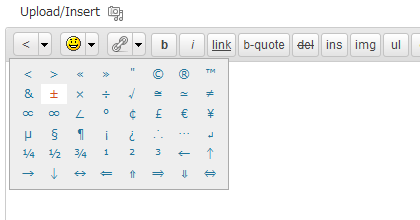
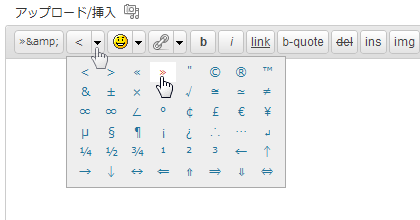
Add convert html entities button.
git-svn-id: https://plugins.svn.wordpress.org/html-entities-button/trunk@509662 b8457f37-d9ea-0310-8a92-e5e31aec5664

diff --git a/html-entities-button.php b/html-entities-button.php
@@ -4,7 +4,7 @@ Plugin Name: HTML entities button
 Plugin URI: http://elearn.jp/wpman/column/html-entities-button.html
 Description: HTML entities button is a few inserting HTML entities button add to the admin post/page editor.
 Author: tmatsuur
-Version: 1.3.6
+Version: 1.4.0
 Author URI: http://12net.jp/
 */
 
@@ -14,7 +14,7 @@ Author URI: http://12net.jp/
 */
 define( 'HTML_ENTITIES_BUTTON_DOMAIN', 'html-entities-button' );
 define( 'HTML_ENTITIES_BUTTON_DB_VERSION_NAME', 'html-entities-button-db-version' );
-define( 'HTML_ENTITIES_BUTTON_DB_VERSION', '1.3.5' );
+define( 'HTML_ENTITIES_BUTTON_DB_VERSION', '1.4.0' );
 
 $plugin_html_entities_button = new html_entities_button();
 class html_entities_button {
@@ -42,6 +42,7 @@ class html_entities_button {
 .quicktags-toolbar .htmlAdvancedButton a { border-width: 1px; border-style: solid; border-color: #C3C3C3; line-height: 18px; font-size: 12px; display: inline-block; text-decoration: none; color: #464646; margin: 0px 0px 4px; background: url('./images/fade-butt.png') repeat-x; height: 18px; }
 .quicktags-toolbar .htmlAdvancedButton a:hover { border-color: #AAA; background: #DDD; }
 .quicktags-toolbar .htmlAdvancedButton a.mceActionButton { width: 16px; padding: 2px 4px; -moz-border-radius-bottomleft: 4px; -webkit-border-bottom-left-radius: 4px; -khtml-border-bottom-left-radius: 4px; border-bottom-left-radius: 4px; -moz-border-radius-topleft: 4px; -webkit-border-top-left-radius: 4px; -khtml-border-top-left-radius: 4px; border-top-left-radius: 4px; }
+.quicktags-toolbar #convertSpeCharsButton a.mceActionButton { font-size: 75%; width: 4em; -moz-border-radius: 4px; -webkit-border-radius: 4px; -khtml-border-radius: 4px; border-radius: 4px; }
 .quicktags-toolbar #htmlSmilyButton span.mceActionButton img { padding: 1px 0px 2px 0px; height: 15px; }
 .quicktags-toolbar #postLinkButton span.mceActionButton { display: inline-block; width: 16px; background: transparent url('./images/menu.png') no-repeat scroll -96px -38px; }
 .quicktags-toolbar .htmlAdvancedButton a.mceOpen { width: 12px; height: 22px; border-left: 0 none !important; -moz-border-radius-bottomright: 4px; -webkit-border-bottom-right-radius: 4px; -khtml-border-bottom-right-radius: 4px; border-bottom-right-radius: 4px; -moz-border-radius-topright: 4px; -webkit-border-top-right-radius: 4px; -khtml-border-top-right-radius: 4px; border-top-right-radius: 4px; }
@@ -79,7 +80,8 @@ var posts = new Array( <?php echo count( $recent_posts ); ?>);
 ?>
 jQuery.event.add( window, 'load', function( ) {
 jQuery( '#ed_toolbar' ).each( function() {
-	var hab_buttons = '<div id="htmlEntityButton" class="htmlAdvancedButton"><table><tr><td><a href="javascript:void();" onclick="return enterHtmlEntity(\'\');" title="<?php _e( 'Insert a HTML entitiy', HTML_ENTITIES_BUTTON_DOMAIN ); ?>" class="mceActionButton"><span class="mceActionButton" title="&amp;lt;">&lt;</span></a></td><td><a href="javascript:void();" onclick="return toggleHtmlEntityList();" title="<?php _e( 'Choose HTML entities', HTML_ENTITIES_BUTTON_DOMAIN ); ?>" class="mceOpen"><span class="mceOpen"></span></a></td></tr></table></div>';
+	var hab_buttons = '<div id="convertSpeCharsButton" class="htmlAdvancedButton"><table><tr><td><a href="javascript:void();" onclick="return convertSpeChars();" title="<?php _e( 'Convert special characters to HTML entities', HTML_ENTITIES_BUTTON_DOMAIN ); ?>" class="mceActionButton"><span class="mceActionButton">&raquo;&amp;amp;</span></a></td></tr></table></div>';
+	hab_buttons += '<div id="htmlEntityButton" class="htmlAdvancedButton"><table><tr><td><a href="javascript:void();" onclick="return enterHtmlEntity(\'\');" title="<?php _e( 'Insert a HTML entitiy', HTML_ENTITIES_BUTTON_DOMAIN ); ?>" class="mceActionButton"><span class="mceActionButton" title="&amp;lt;">&lt;</span></a></td><td><a href="javascript:void();" onclick="return toggleHtmlEntityList();" title="<?php _e( 'Choose HTML entities', HTML_ENTITIES_BUTTON_DOMAIN ); ?>" class="mceOpen"><span class="mceOpen"></span></a></td></tr></table></div>';
 <?php if ( $smiles ) { ?>
 	hab_buttons += '<div id="htmlSmilyButton" class="htmlAdvancedButton"><table><tr><td><a href="javascript:void();" onclick="return enterHtmlSmily(\'\');" title="<?php _e( 'Insert a emoticon', HTML_ENTITIES_BUTTON_DOMAIN ); ?>" class="mceActionButton"><span class="mceActionButton" title=":smile:"><?php echo trim( str_replace( '\'', '"', convert_smilies( ':smile:' ) ) ); ?></span></a></td><td><a href="javascript:void();" onclick="return toggleHtmlSmilyList();" title="<?php _e( 'Choose emoticons', HTML_ENTITIES_BUTTON_DOMAIN ); ?>" class="mceOpen"><span class="mceOpen"></span></a></td></tr></table></div>';
 <?php } ?>
@@ -206,6 +208,30 @@ function enterHtmlSmily( smily, id ) {
 function enterPostLink( postno ) {
 	edInsertContent( edCanvas, '<a href="'+posts[postno]['url']+'" title="'+posts[postno]['title']+'">'+posts[postno]['title']+'</a>' );
 	jQuery( '#postLinkList' ).css( 'display', 'none' );
+	return false;
+}
+function convertSpeChars() {
+	var canvas = document.getElementById( wpActiveEditor );
+	if ( !canvas ) return false;
+
+	if ( document.selection ) {
+		// for IE
+		canvas.focus();
+		var sel = document.selection.createRange();
+		sel.text = sel.text.replace(/&/g,"&amp;").replace(/"/g,"&quot;").replace(/'/g,"&#039;").replace(/</g,"&lt;").replace(/>/g,"&gt;");
+		canvas.focus();
+	} else if ( canvas.selectionStart != canvas.selectionEnd ) {
+		// for Firefox, Webkit based, Opera
+		var startPos = canvas.selectionStart;
+		var endPos = canvas.selectionEnd;
+		var scrollTop = canvas.scrollTop;
+		var replaced = canvas.value.substring( startPos, endPos ).replace(/&/g,"&amp;").replace(/"/g,"&quot;").replace(/'/g,"&#039;").replace(/</g,"&lt;").replace(/>/g,"&gt;");
+		canvas.value = canvas.value.substring( 0, startPos ) + replaced + canvas.value.substring( endPos, canvas.value.length );
+		canvas.focus();
+		canvas.selectionStart = startPos + replaced.length;
+		canvas.selectionEnd = startPos + replaced.length;
+		canvas.scrollTop = scrollTop;
+	}
 	return false;
 }
 //]]>
